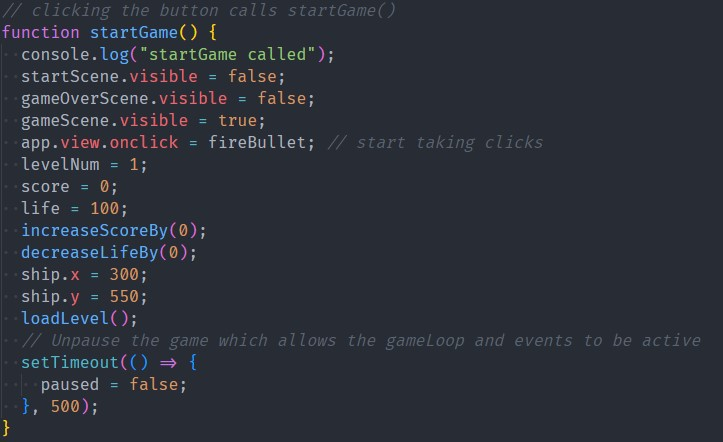
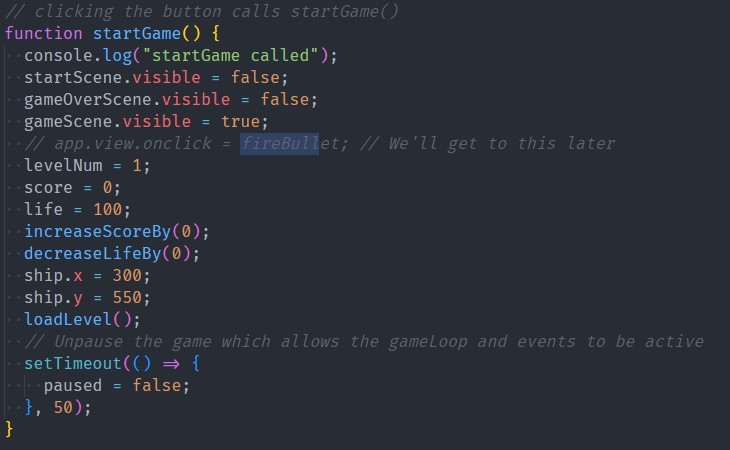
Updating images

diff --git a/tutorial/HW-circle-blast-3.md b/tutorial/HW-circle-blast-3.md
@@ -48,10 +48,14 @@ You are now done adding code to **classes.js**!
 
 ### II-C. Fire bullets when the player clicks the mouse
 
-We will hook up the code that listens for clicks in `startGame()` - here it is:
+We will hook up the code that listens for clicks in `startGame()` - all you have to do is uncomment it!
 
 ```javascript
-app.view.onclick = fireBullet; // start taking clicks
+...
+gameScene.visible = true;
+// app.view.onclick = fireBullet; // <-- uncomment this line
+levelNum = 1;
+...
 ```
 
 - **Reload the page, and start the game. Clicking should cause bullets to be fired from the current position of the ship - but of course they don't move yet.**
